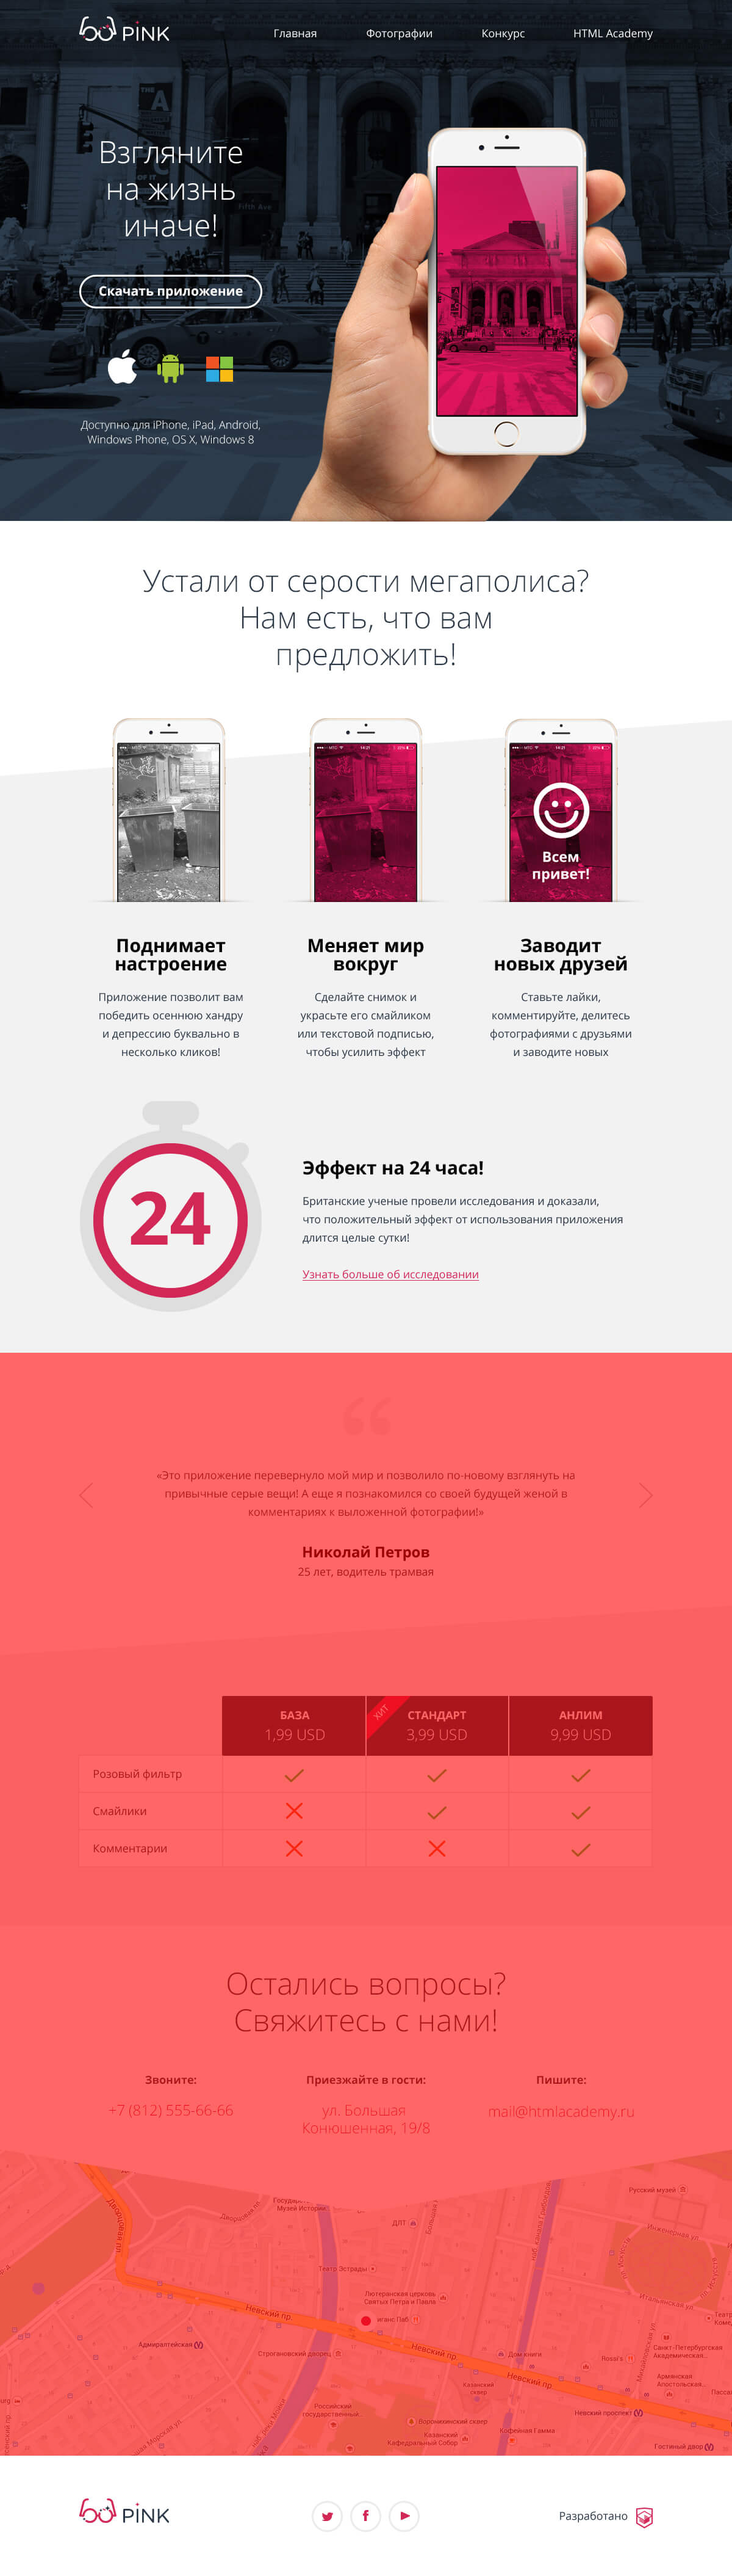
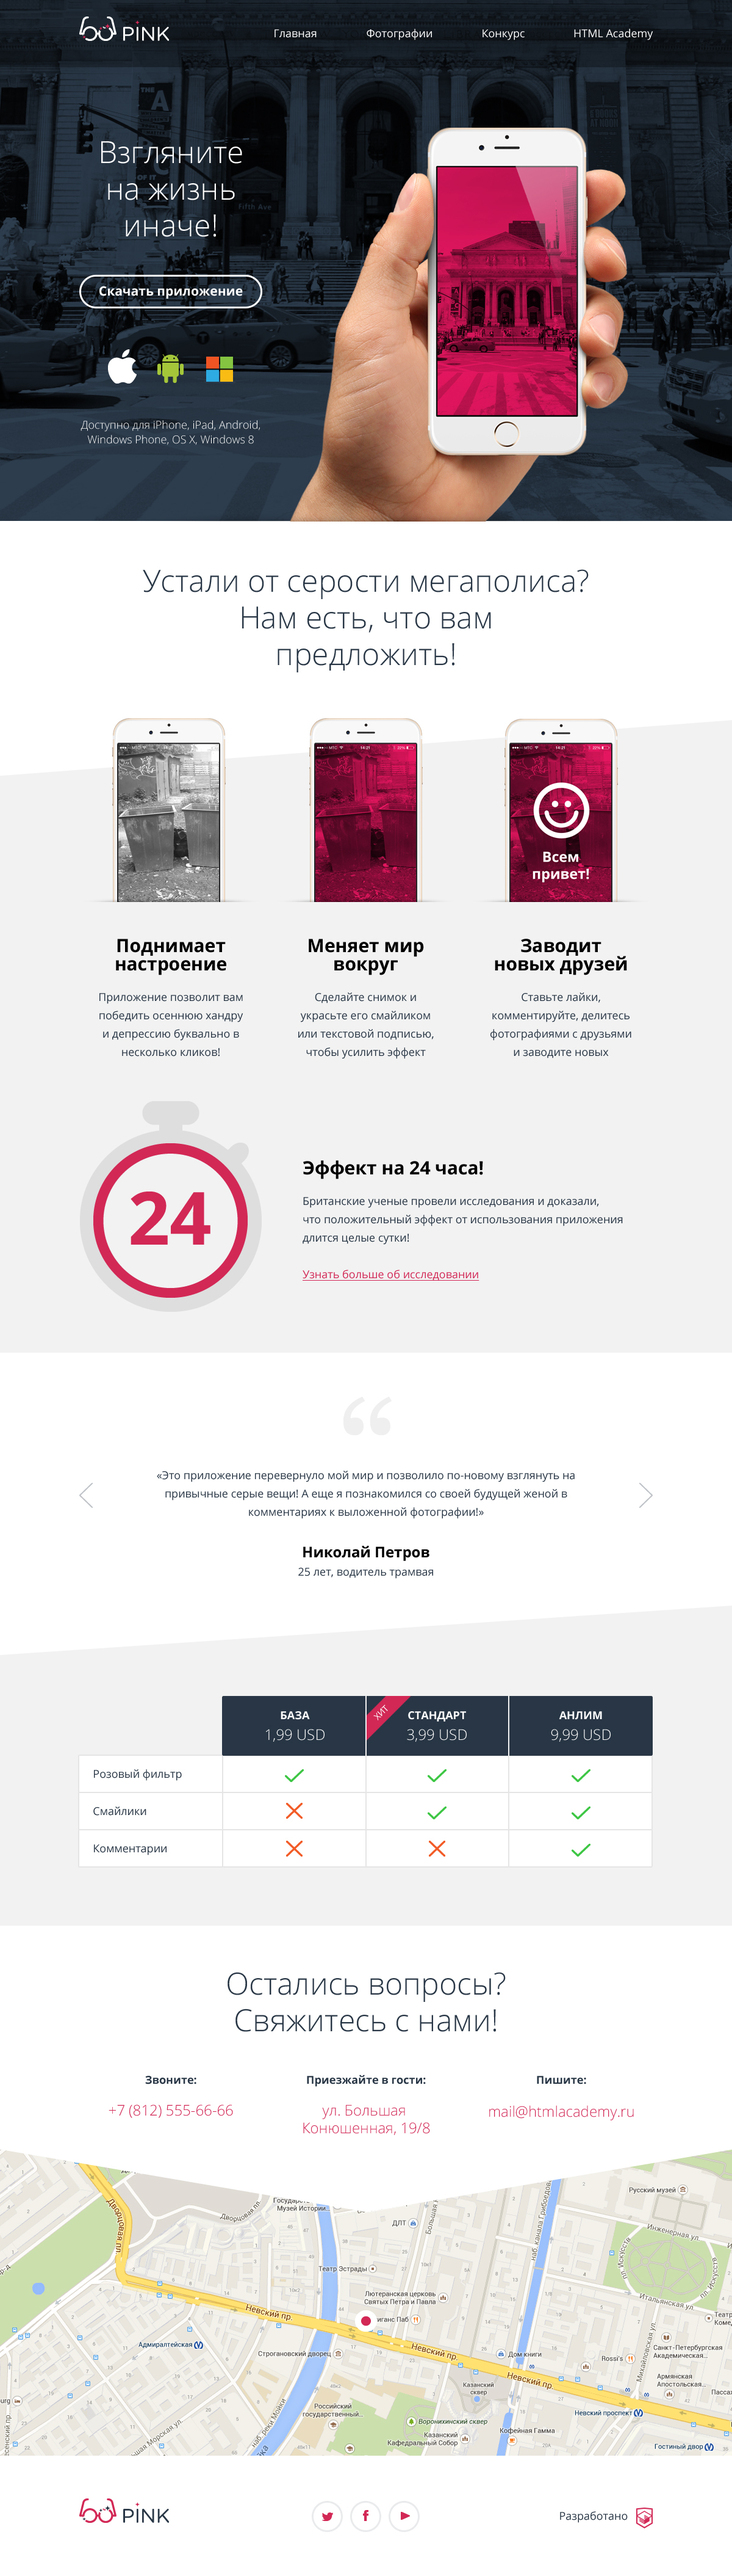
начало начал

diff --git a/source/index.html b/source/index.html
@@ -37,10 +37,10 @@
 
   <main class="page-main">
 
-    <h1 class="visually-hidden">PINK - взгляни на мир иначе</h1>
     <div class="download__img"></div>
     <div class="download__wrapper">
-      <h2 class="download__headline">Скачать приложение</h2>
+      <h1 class="download__headline">Взгляните на мир иначе!</h1>
+      <h2 class="download__button">Скачать приложение</h2>
       <ul class="download__list">
         <li class="download__item">
           <a class="download__link download__link--ios" href="#"></a>
@@ -78,16 +78,17 @@
     </div>
 
     <div class="reviews__wrapper slider">
+      <div class="reviews__effect">
+        <img src="">
+        <h3 class="reviews__effect-headline">Эффект на 24 часа!</h3>
+        <p class="reviews__effect-p">Британские ученые провели исследования
+          и доказали, что положительный эффект
+          от использования приложения длится
+          целые сутки!</p>
+        <a class="reviews__effect-a">Узнать больше об исследовании</a>
+      </div>
       <h2 class="visually-hidden">Отзывы о нас</h2>
       <div class="reviews__list  slider__list">
-        <blockquote class="reviews__item  slider__item">
-          <cite class="reviews__author-name">Николай Петров</cite>
-          <p class="reviews__text">«Это приложение перевернуло мой мир и позволило по-новому взглянуть на привычные серые вещи! А еще я познакомился со своей будущей женой в комментариях к выложенной фотографии!»</p>
-        </blockquote>
-        <blockquote class="reviews__item  slider__item">
-          <cite class="reviews__author-name">Николай Петров</cite>
-          <p class="reviews__text">«Это приложение перевернуло мой мир и позволило по-новому взглянуть на привычные серые вещи! А еще я познакомился со своей будущей женой в комментариях к выложенной фотографии!»</p>
-        </blockquote>
         <blockquote class="reviews__item  slider__item">
           <cite class="reviews__author-name">Николай Петров</cite>
           <p class="reviews__text">«Это приложение перевернуло мой мир и позволило по-новому взглянуть на привычные серые вещи! А еще я познакомился со своей будущей женой в комментариях к выложенной фотографии!»</p>

diff --git a/source/less/page-main.less b/source/less/page-main.less
@@ -2,10 +2,11 @@
 
 // index.html start
 .page-main {
+  opacity: 0.6;
 }
 
 .download__img {
-  background: url("../img/bg-back-tablet.jpg") no-repeat 100%;
+  background: url("../img/bg-back-mobile.jpg") no-repeat 100%;
   min-height: 462px;
   background-size: cover;
   background-position: center;
@@ -15,8 +16,13 @@
   //background-color: #1d2631;
   color: white;
   min-height: 271px;
+  &::before {
+    background: url("../img/iphone-hand-mobile@1x.png") no-repeat 100%;
+  }
 }
-.download__headline {
+
+
+.download__button {
   margin: 0;
   border: 2px solid #ffffff;
   border-radius: 27px;
@@ -110,10 +116,55 @@
 
 
 @media (min-width: @tablet-width) {
-  min-height: 740px;
+  .page-main {
+    opacity: 0.6;
+  }
+  .download__img {
+    background: url("../img/bg-back-tablet.jpg") no-repeat 100%;
+    min-height: 785px;
+    background-size: cover;
+    background-position: center;
+    margin-top: -110px;
+  }
+  .download__wrapper {
 
+    color: white;
+    min-height: 565px;
+    margin-top: -810px;
+    &::before {
+      background: url("../img/iphone-hand-tablet@1x.png") no-repeat 100%;
+    }
+    .download__headline {
+      font-family: "Open Sans light", sans-serif;
+      margin-top: 245px;
+    }
+  }
+  .information__headline {
+    margin: 0;
+  }
+  .information__wrapper {
+    max-height: 790px;
+  }
 }
 
 @media (min-width: @desktop-width) {
-
+  .page-main {
+    opacity: 0.6;
+  }
+  .download__img {
+    background: url("../img/bg-back-desktop.jpg") no-repeat 100%;
+    min-height: 855px;
+    background-size: cover;
+    background-position: center;
+    margin-top: -120px;
+  }
+  .download__wrapper {
+    //background-color: #1d2631;
+    color: white;
+    min-height: 271px;
+    margin-top: -120px;
+    &::before {
+      background: url("../img/iphone-hand-desktop@1x.png") no-repeat 100%;
+    }
+  }
 }

diff --git a/source/less/page-header.less b/source/less/page-header.less
@@ -28,10 +28,17 @@
   .page-header__nav-header {
     min-height: 120px;
   }
-
+  .site-list__item {
+    min-height: 70px;
+  }
 }
 
 
 @media (min-width: @desktop-width) {
-
+ .page-header {
+   display: flex;
+   .main-nav__list {
+     display: flex;
+   }
+ }
 }
